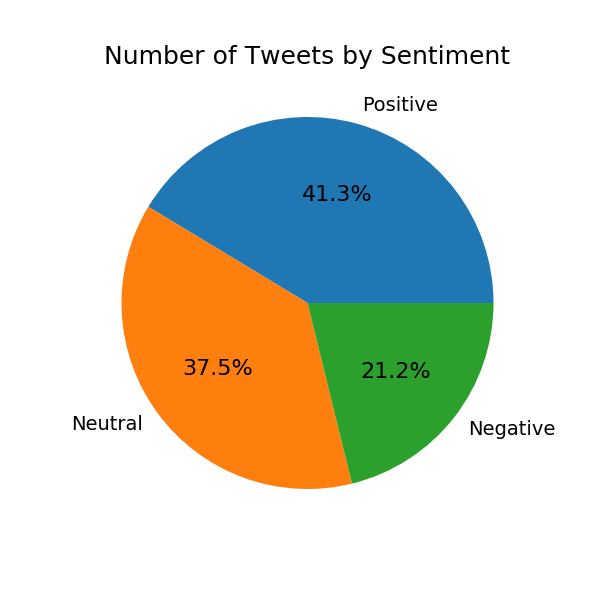
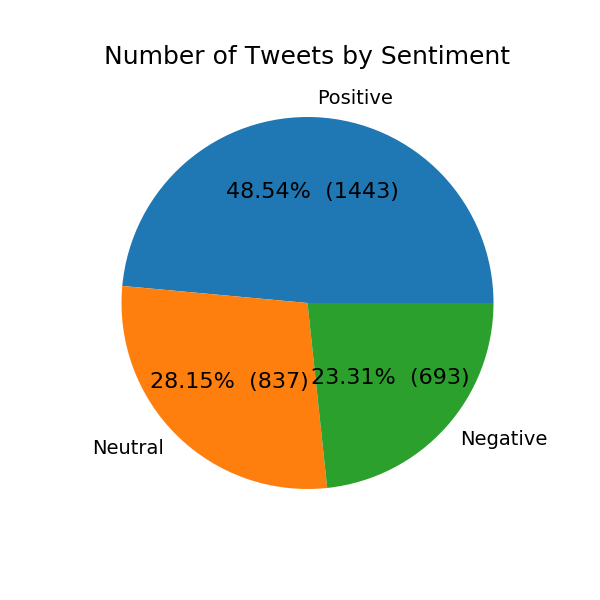
working on getting avg tweets per day in a week

diff --git a/ShawTimelineAnalysis.py b/ShawTimelineAnalysis.py
@@ -12,7 +12,6 @@ import csv
 import json
 import got
 
-####input your credentials here
 consumer_key = 'ejCkcbYsjKRCI6e125bJpG49x'
 consumer_secret = 'qqEeJUPeFdlZyETjx6hJxfFw6i1gYWCINpQvdwdJzh7rMKttTu'
 access_token = '919666743655538688-bCIJ3vxitH4jX1XE7xj1sUniYGR5pjH'
@@ -38,8 +37,17 @@ def get_tweet_sentiment(tweet):
     else:
         return 'negative'
 
+# Source: https://stackoverflow.com/questions/6170246/how-do-i-use-matplotlib-autopct
+def make_autopct(values):
+    def my_autopct(pct):
+        total = sum(values)
+        val = int(round(pct*total/100.0))
+        return '{p:.2f}%  ({v:d})'.format(p=pct,v=val)
+    return my_autopct
+
 # Reference: https://plot.ly/matplotlib/bar-charts/#matplotlib-bar-chart-with-dates
-def sentiment_numbers(user,tweets):
+# Creates a pie chart of postive/negative/neutral for tweets
+def plot_sentiment_numbers(source,tweets):
     ptweets = len([tweet for tweet in tweets if get_tweet_sentiment(tweet.text) == 'positive'])
     ntweets = len([tweet for tweet in tweets if get_tweet_sentiment(tweet.text) == 'negative'])
     numNeutral = len(tweets)-ntweets-ptweets
@@ -50,7 +58,7 @@ def sentiment_numbers(user,tweets):
     fig = plt.figure(figsize=(6,6))
 
     plt.axis("equal")
-    patches, texts, autotexts = plt.pie(vals, labels=sentiments, autopct='%1.1f%%')
+    patches, texts, autotexts = plt.pie(vals, labels=sentiments, autopct=make_autopct(vals))
     plt.title('Number of Tweets by Sentiment', fontsize=18)
 
     for t in texts:
@@ -58,17 +66,35 @@ def sentiment_numbers(user,tweets):
     for t in autotexts:
         t.set_size(16)
 
-    fig.savefig('plots/' + user + '_sentiment_numbers')
+    fig.savefig('plots/' + source + '_sentiment_numbers')
 
     plt.tight_layout()
     plt.show()
 
-# users = ['ShawHelp','ShawInfo']
+def plot_tweets_per_day(source,tweets):
+    fig = plt.figure(figsize=(6,6))
+    plt.show()
 
-users = ['ShawHelp']
+users = ['ShawHelp','ShawInfo']
+startDate = '2017-10-01'
+endDate = '2017-11-11'
 
-for user in users:
-    tweetCriteria = got.manager.TweetCriteria().setUsername(user).setSince("2017-10-11").setUntil("2017-10-12")
+def sentiment_analysis():
+    for user in users:
+        tweetCriteria = got.manager.TweetCriteria().setUsername(user).setSince(startDate).setUntil(endDate)
+        shawTweets = got.manager.TweetManager.getTweets(tweetCriteria)
+
+        plot_sentiment_numbers(user,shawTweets)
+
+    tweetCriteria = got.manager.TweetCriteria().setQuerySearch('#ShawInternet').setSince(startDate).setUntil(endDate)
     tweets = got.manager.TweetManager.getTweets(tweetCriteria)
 
-    sentiment_numbers(user,tweets)
+    plot_sentiment_numbers("hastag_shawInternet",tweets)
+
+def avg_tweets_per_day():
+    tweetCriteria = got.manager.TweetCriteria().setQuerySearch('#ShawInternet').setSince(startDate).setUntil(endDate)
+    tweets = got.manager.TweetManager.getTweets(tweetCriteria)
+
+    plot_tweets_per_day('beepnoop',tweets)
+
+avg_tweets_per_day()
